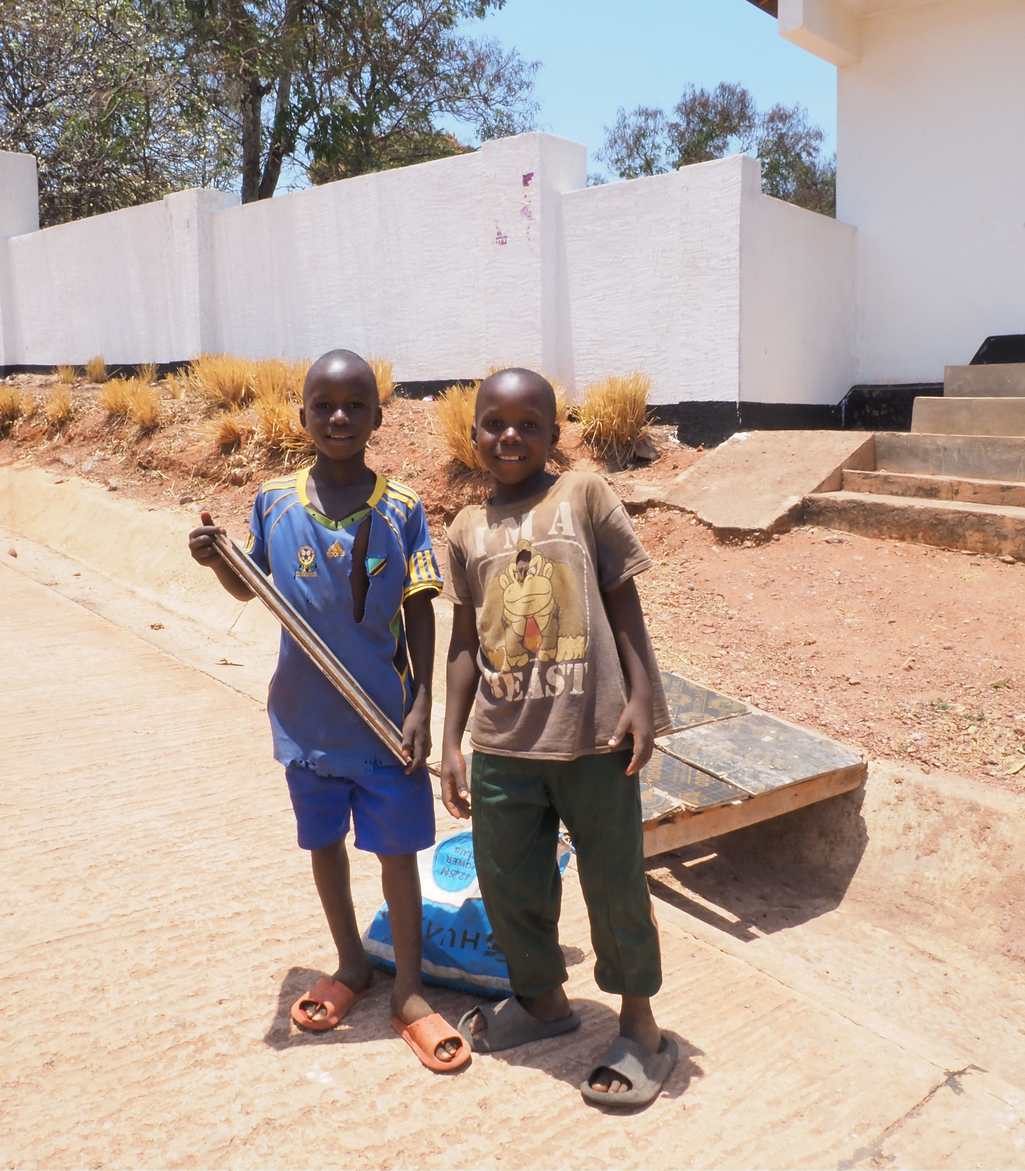
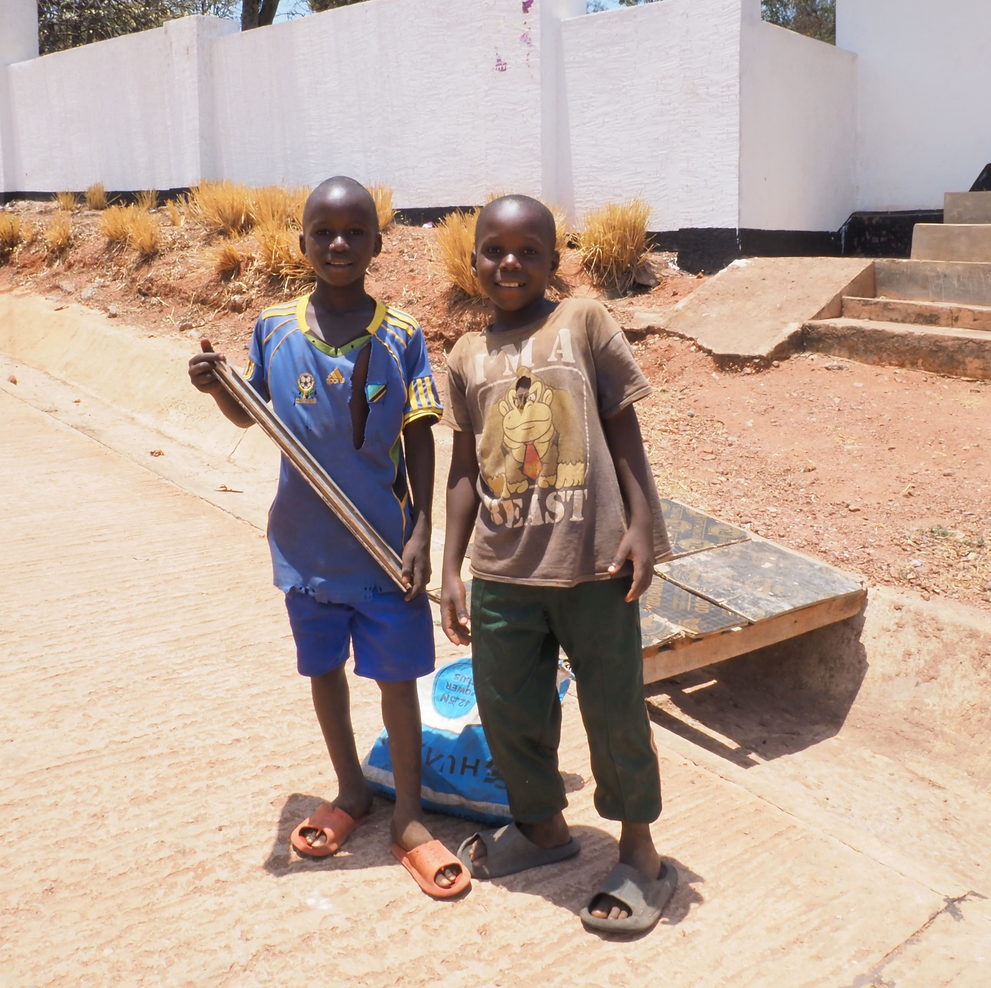
minor changes picture and orthographic

diff --git a/articles/launch.html b/articles/launch.html
@@ -84,7 +84,7 @@
                             volonté sincère d'agir dans le respect des besoins exprimés localement.</p>
 
                         <p>Créer TINARA, c'est choisir d'avancer étape par étape, avec une vision de long terme. C'est
-                            aussi faire le pari d'une aventure à la hauteur de nos valeurs. Celle d'offrir une meilleure vie en s'engageant aurpès des enfants accompagnés à Kigoma.</p>
+                            aussi faire le pari d'une aventure à la hauteur de nos valeurs. Celle d'offrir son aide en s'engageant auprès des enfants accompagnés à Kigoma.</p>
 
                         <p>Les premiers mois sont consacrés à structurer l'association, poser un cadre clair, définir
                             les priorités et faire connaître le projet. Chaque action engagée s'inscrit dans cette
